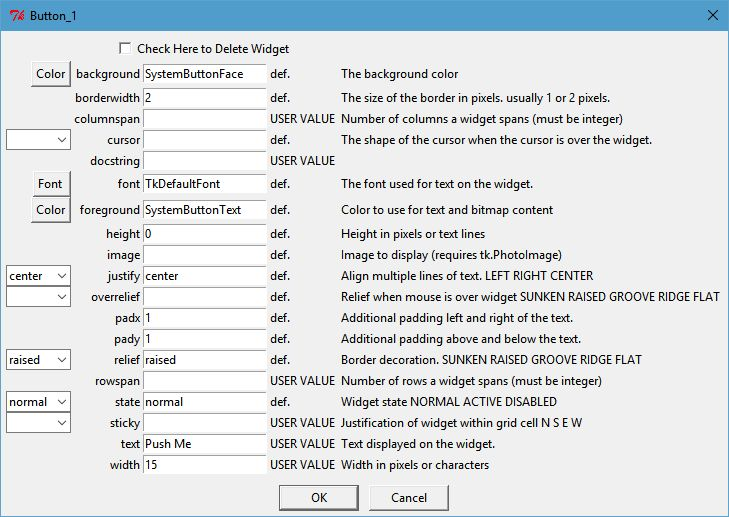
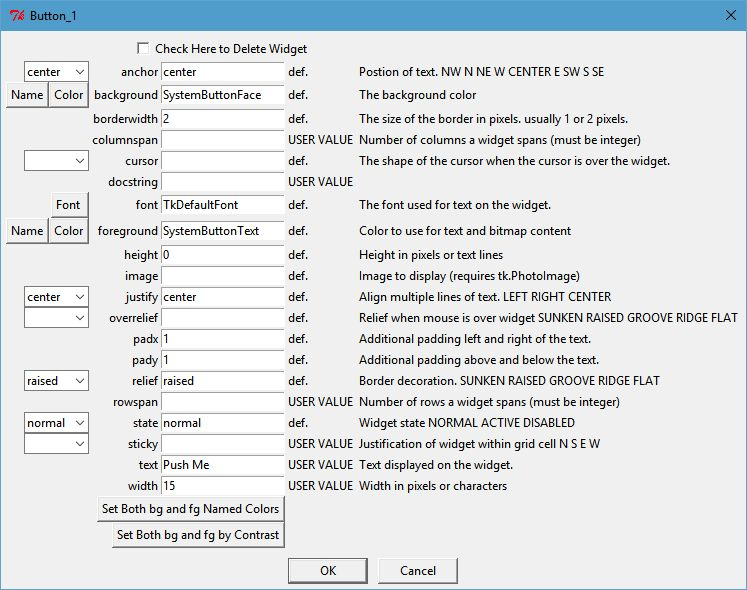
updated quickstart documentation

Changed region(s): [[0.0, 0.0, 1.0, 1.0], [0.0, 0.4642, 0.1207, 0.5571]]

diff --git a/tkgridgui/color_lists.py b/tkgridgui/color_lists.py
@@ -8,6 +8,9 @@ For ease of use in complying with WCAG 2 Contrast Ratio guidance.
 Relative Luminance    see: https://www.w3.org/WAI/GL/wiki/Relative_luminance
 Contrast Ratio WCAG 2 see: https://www.w3.org/WAI/GL/wiki/Contrast_ratio
 
+Contrast Ratio WCAG 2 see: https://en.wikipedia.org/wiki/Template:Color_contrast_ratio
+
+
 """
 
 # lum_sorted_colorL are the colors in order of their luminance.

diff --git a/docs/quickstart.rst b/docs/quickstart.rst
@@ -161,6 +161,20 @@ Many of the options have drop-down selections for enumerated inputs like relief,
     
 `Click Image to View Fill Size`
 
+Contrast Ratio
+--------------
+
+For widgets with a foreground and background color, a color selection control is present that
+helps select colors that comply with  WCAG 2 Contrast Ratio guidance.
+
+Contrast Ratio WCAG 2 see: https://en.wikipedia.org/wiki/Template:Color_contrast_ratio
+
+
+.. image:: ./_static/fg_bg_contrast_editor.jpg
+    :width: 80%
+    
+`Click Image to View Fill Size`
+
 Save Tkinter Application
 ------------------------
 
